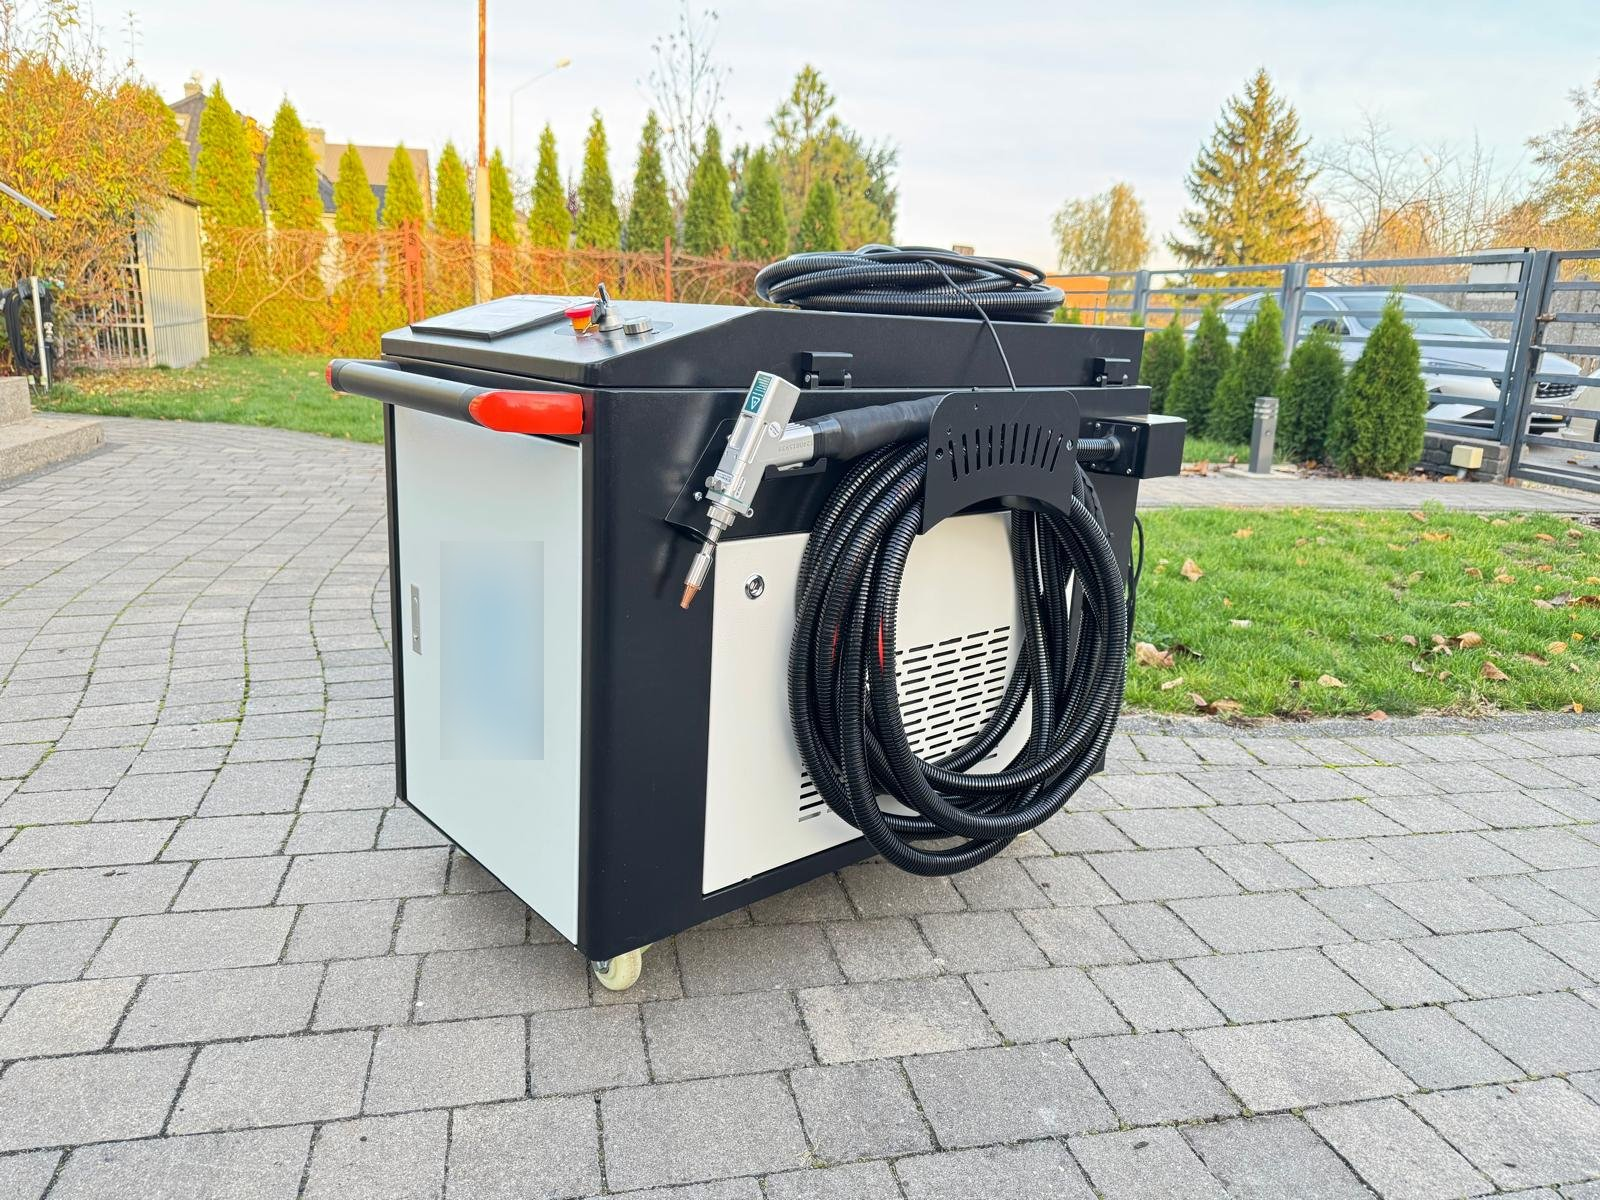
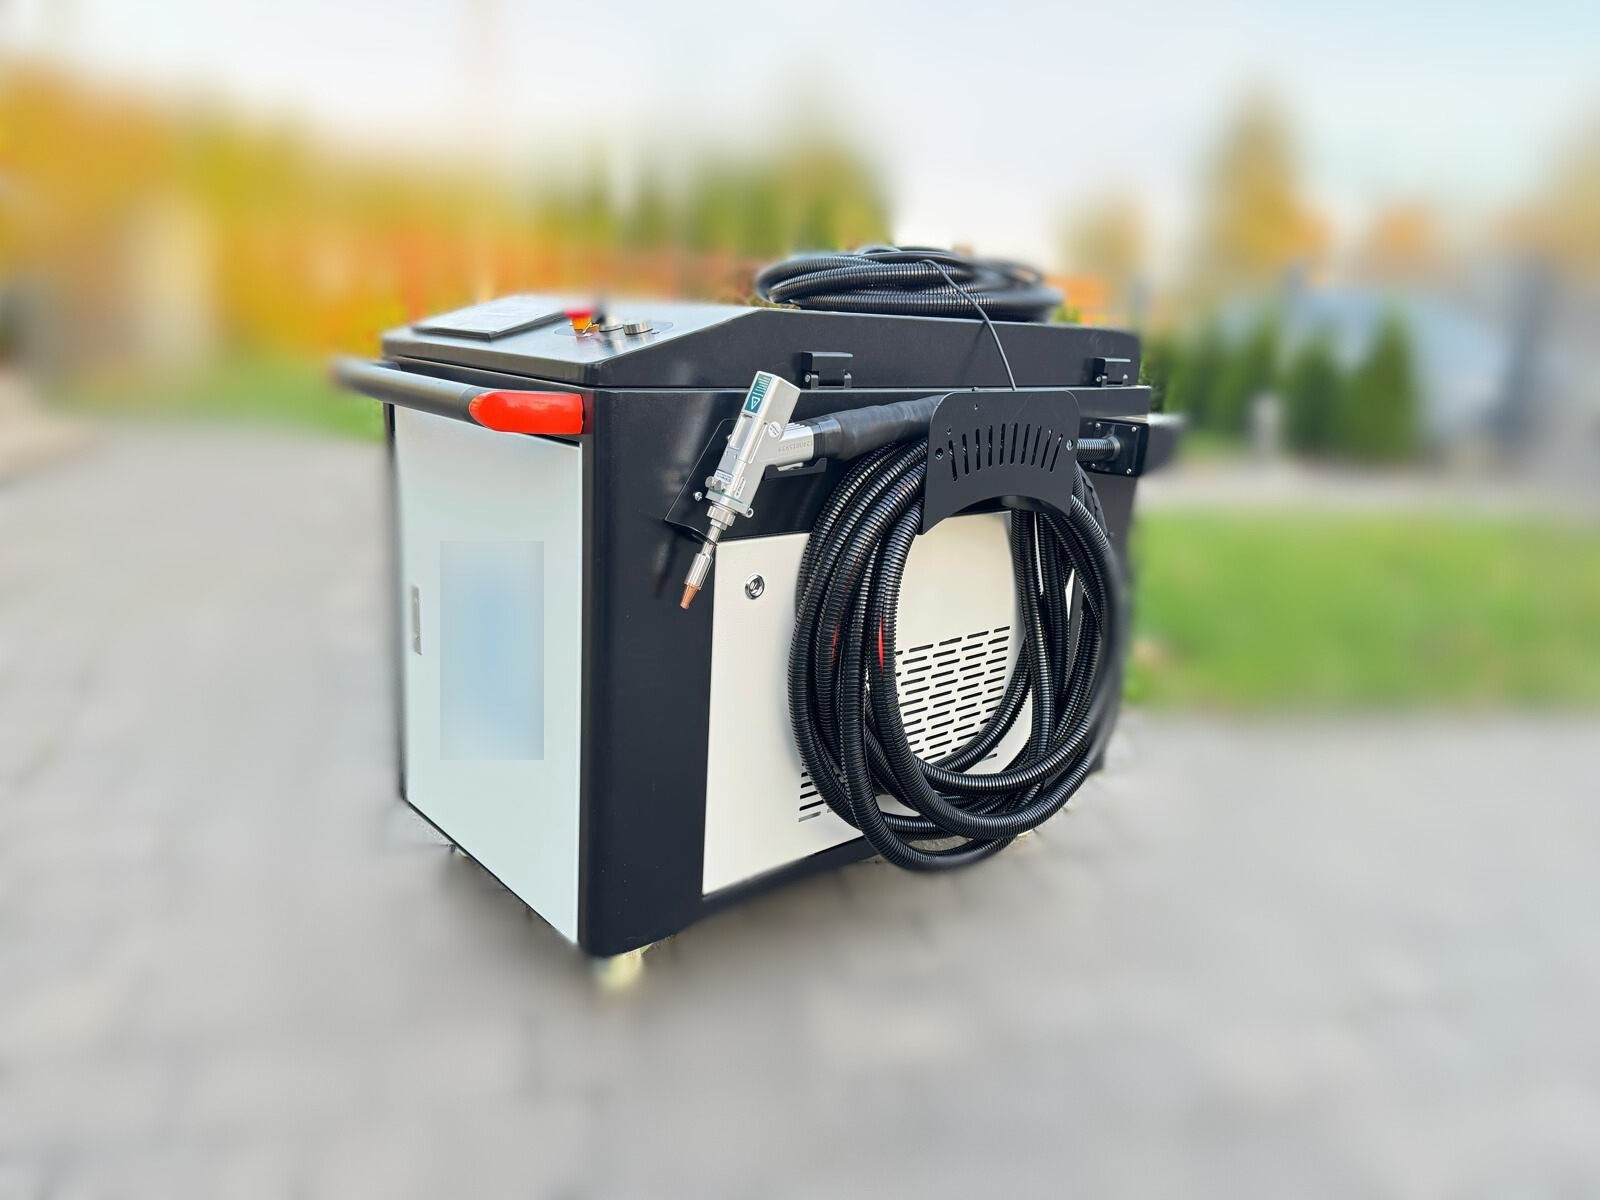
Dodanie rozmytych zdjec w HowWeWork oraz usunięcie napisu.

diff --git a/frontend/src/components/HowWeWork/HowWeWork.jsx b/frontend/src/components/HowWeWork/HowWeWork.jsx
@@ -72,7 +72,7 @@ const HowWeWork = () => {
         Tak pracujemy w TYGA-TECH
       </h2>
       <p className={styles.description} data-aos="fade-up" data-aos-delay="100">
-        Zajrzyj za kulisy naszej pracy – proces naprawy spawarek laserowych krok po kroku.
+        Zajrzyj za kulisy naszej pracy.
       </p>
 
       <div
